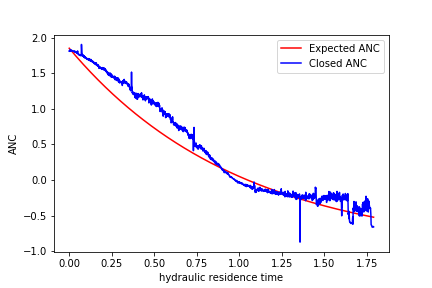
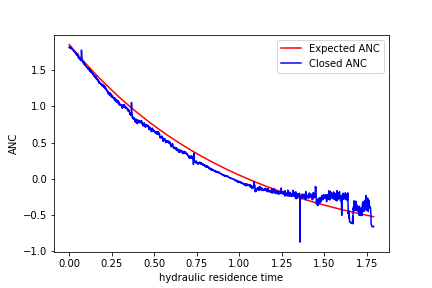
kjh

diff --git a/Lab2/team10_lab2.md b/Lab2/team10_lab2.md
@@ -98,7 +98,7 @@ $$ \alpha_1 = \frac{1}{\frac{[H^+]}{K_1} + 1 + \frac{K_2}{[H^+]}} $$
 $$\alpha_2 = \frac{1}{\frac{[H^+]^2 }{K_1 K_2} +\frac{[H^+]}{K_2} + 1}$$
 
 ```python
-C_T = ANC_0
+C_T = ANC_0*np.exp(-time)
 ANC_closed = epa.ANC_closed(lakepH, C_T)
 
 fig, ax = plt.subplots()
@@ -151,7 +151,7 @@ ax.plot(time2,lakepH2,'r')
 plt.xlabel('hydraulic residence time')
 plt.ylabel('pH')
 
-plt.savefig('Lab2/pHgraph2.png')
+plt.savefig('pHgraph2.png')
 plt.show()
 ```
 ![pH Graph 2](https://raw.githubusercontent.com/lw583/CEE4530/master/Lab2/pHgraph2.png)
